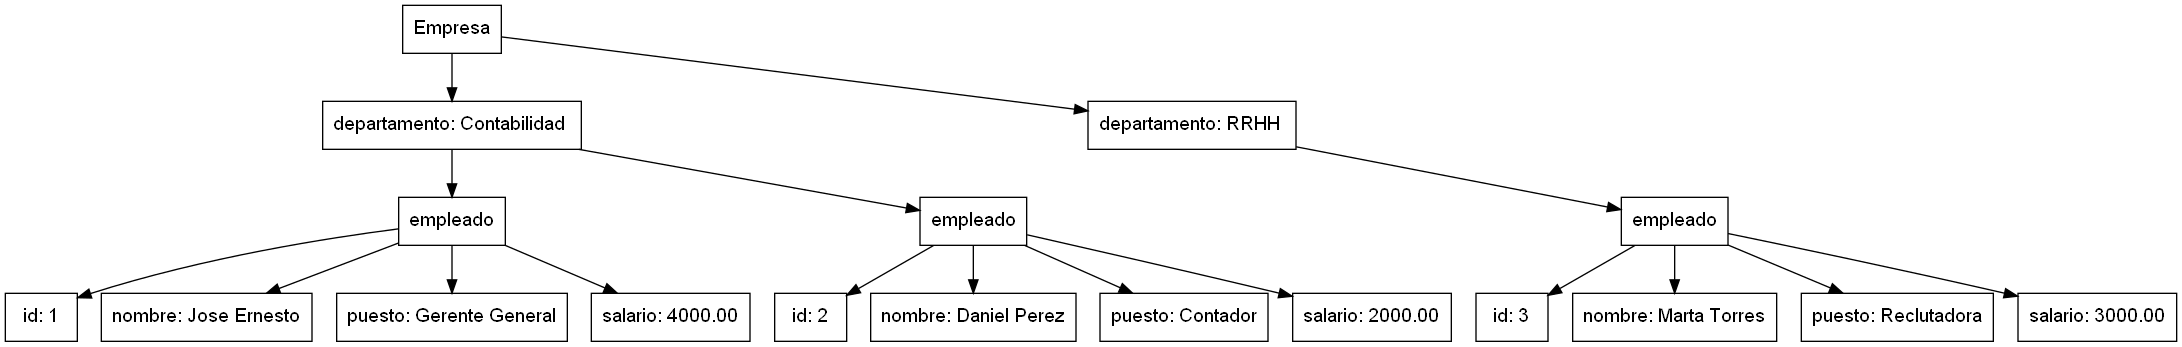
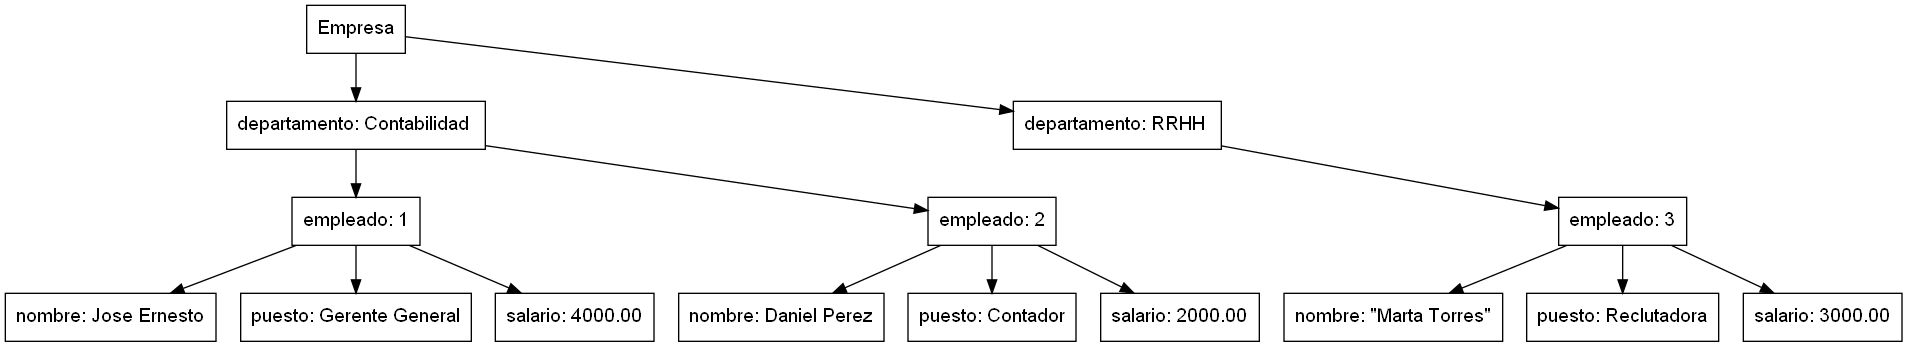
Creacion grafos de discos y empleados

diff --git a/Practica2/Discos.py b/Practica2/Discos.py
@@ -1,5 +1,6 @@
+from cgi import print_exception
 from this import s
-
+import os
 
 class Disco:
     def __init__(self, root = None, arbol = None):
@@ -80,3 +81,52 @@ class Disco:
 
     def generarArchivo(self):
         self.arbol.write('discos.xml')
+
+    def graficar(self):
+        grafo = 'digraph T{ \nnode[shape=box fontname="Arial" fillcolor="white" style=filled ]'
+        grafo += '\nroot[label = \"Catalog\", constraint=false, group=1];\n'
+        
+        contador = 0
+        for elemento in self.root.findall('./cd'):
+            contador += 1
+            titulo = elemento.find('title').text
+            artista = elemento.find('./artist').text 
+            pais = elemento.find('./country').text
+            compania = elemento.find('./company').text
+            precio = elemento.find('./price').text
+            anio = elemento.find('./year').text
+
+            titulo = titulo.replace("\"", "\\\"")
+            artista = artista.replace("\"", "\\\"")
+            pais = pais.replace("\"", "\\\"")
+            compania = compania.replace("\"", "\\\"")
+            precio = precio.replace("\"", "\\\"")
+            anio = anio.replace("\"", "\\\"")
+
+            grafo += '\ncd{}[label = \"cd \", group="{}"];\n'.format(contador, contador)
+            grafo += '\ntitle{}[label = \"title: {}\", group="{}"];\n'.format(contador, titulo, contador)
+            grafo += '\nartist{}[label = \"artist: {} \", group="{}"];\n'.format(contador, artista ,contador)
+            grafo += '\ncountry{}[label = \"country: {} \", group="{}"];\n'.format(contador, pais ,contador)
+            grafo += '\ncompany{}[label = \"company: {} \", group="{}"];\n'.format(contador, compania ,contador)
+            grafo += '\nprice{}[label = \"price: {} \", group="{}"];\n'.format(contador, precio ,contador)
+            grafo += '\nyear{}[label = \"year: {} \", group="{}"];\n'.format(contador, anio ,contador)
+
+            grafo += '\nroot -> cd{};'.format(contador)
+            grafo += '\ncd{} -> title{};'.format(contador, contador)
+            grafo += '\ntitle{} -> artist{};'.format(contador, contador)
+            grafo += '\ntitle{} -> country{};'.format(contador, contador)
+            grafo += '\ntitle{} -> company{};'.format(contador, contador)
+            grafo += '\ntitle{} -> price{};'.format(contador, contador)
+            grafo += '\ntitle{} -> year{};'.format(contador, contador)
+
+            
+
+
+        grafo += '}'
+
+        # ---- luego de crear el contenido del Dot, procedemos a colocarlo en un archivo
+        dot = "{}_dot.txt".format('discos')
+        with open(dot, 'w') as f:
+            f.write(grafo)
+        result = "{}.png".format('discos')
+        os.system("dot -Tpng " + dot + " -o " + result)

diff --git a/Practica2/Empleados.py b/Practica2/Empleados.py
@@ -108,14 +108,21 @@ class Empleado:
                 self.salario = empleado.find('./salario').text
                 
                 
-                grafo += '\nempleado{}[label = \"empleado\", group="{}"];\n'.format(self.id, self.id)
-                grafo += '\nid{}[label = \"id: {}\", group="{}"];\n'.format(self.id, self.id, self.id)
+                #print("el nombre es: ", self.nombre)
+                self.id = self.id.replace("\"", "\\\"")
+                self.nombre = self.nombre.replace("\"", "\\\"")
+                self.puesto = self.puesto.replace("\"", "\\\"")
+                self.salario = self.salario.replace("\"", "\\\"")
+                
+    
+                grafo += '\nempleado{}[label = \"empleado: {}\", group="{}"];\n'.format(self.id, self.id, self.id)
+                #grafo += '\nid{}[label = \"id: {}\", group="{}"];\n'.format(self.id, self.id, self.id)
                 grafo += '\nnombre{}[label =\"nombre: {}\", group="{}"];\n'.format(self.id, self.nombre, self.id)
                 grafo += '\npuesto{}[label = \"puesto: {}\", group="{}"];\n'.format(self.id, self.puesto, self.id)
                 grafo += '\nsalario{}[label = \"salario: {}\", group="{}"];\n'.format(self.id, self.salario, self.id)
 
                 grafo += '\ndepartamento{} -> empleado{};'.format(contador, self.id )
-                grafo += '\nempleado{} -> id{};'.format(self.id, self.id )
+                #grafo += '\nempleado{} -> id{};'.format(self.id, self.id )
                 grafo += '\nempleado{}-> nombre{};'.format(self.id, self.id)
                 grafo += '\nempleado{}-> puesto{};'.format(self.id, self.id)
                 grafo += '\nempleado{} -> salario{};'.format(self.id, self.id)
@@ -130,4 +137,4 @@ class Empleado:
         with open(dot, 'w') as f:
             f.write(grafo)
         result = "{}.png".format('empleados')
-        os.system("dot -Tpng " + dot + " -o " + result) 
+        os.system("dot -Tpng " + dot + " -o " + result)

diff --git a/Practica2/Menu.py b/Practica2/Menu.py
@@ -19,7 +19,7 @@ class Menu:
 
             if opc == 1:
                 
-                print("hola")
+            
                 #ruta = 'C:\Users\Darkun\Desktop\discos.xml'
                 self.archivo.lecturaDiscos('discos.xml')
                 self.archivo.lecturaEmpleados('empleados.xml')
@@ -29,7 +29,7 @@ class Menu:
                 self.disco.arbol = self.archivo.doc_discos
 
                 print("\n                  Se cargaron los datos exitosamente\n")
-
+                
 
             elif opc == 2:
                 print("Gestion de empleados")
@@ -126,10 +126,10 @@ class Menu:
                     opcion = int(input("Ingrese la opcion: "))
 
                     if opcion == 1:
-                        print("Reporte de empleados")
+                        
                         self.empleado.graficar()
                     elif opcion == 2:
-                        print("Reporte de discos")
+                        self.disco.graficar()
                     else:
                         print("Regresando....")
             else:
